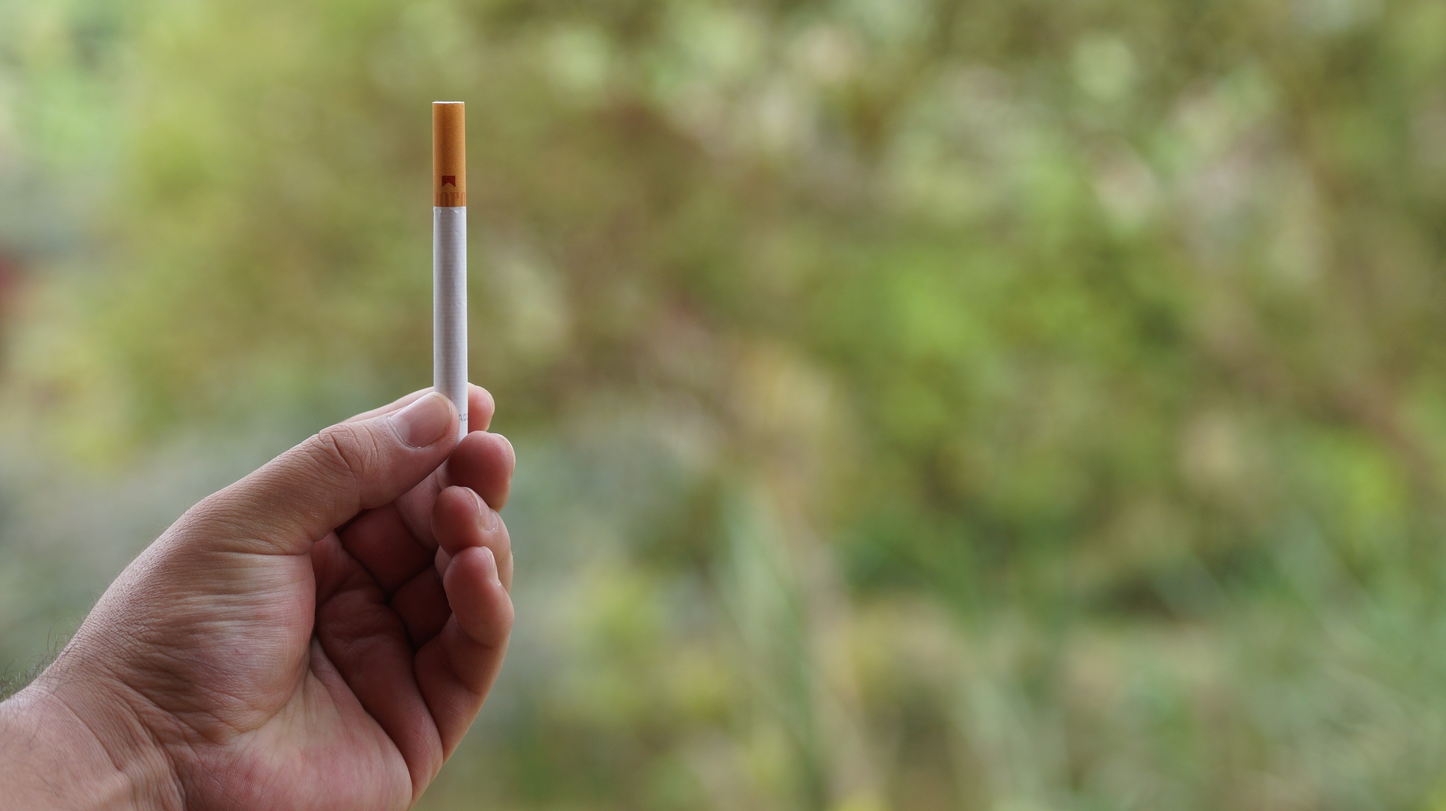
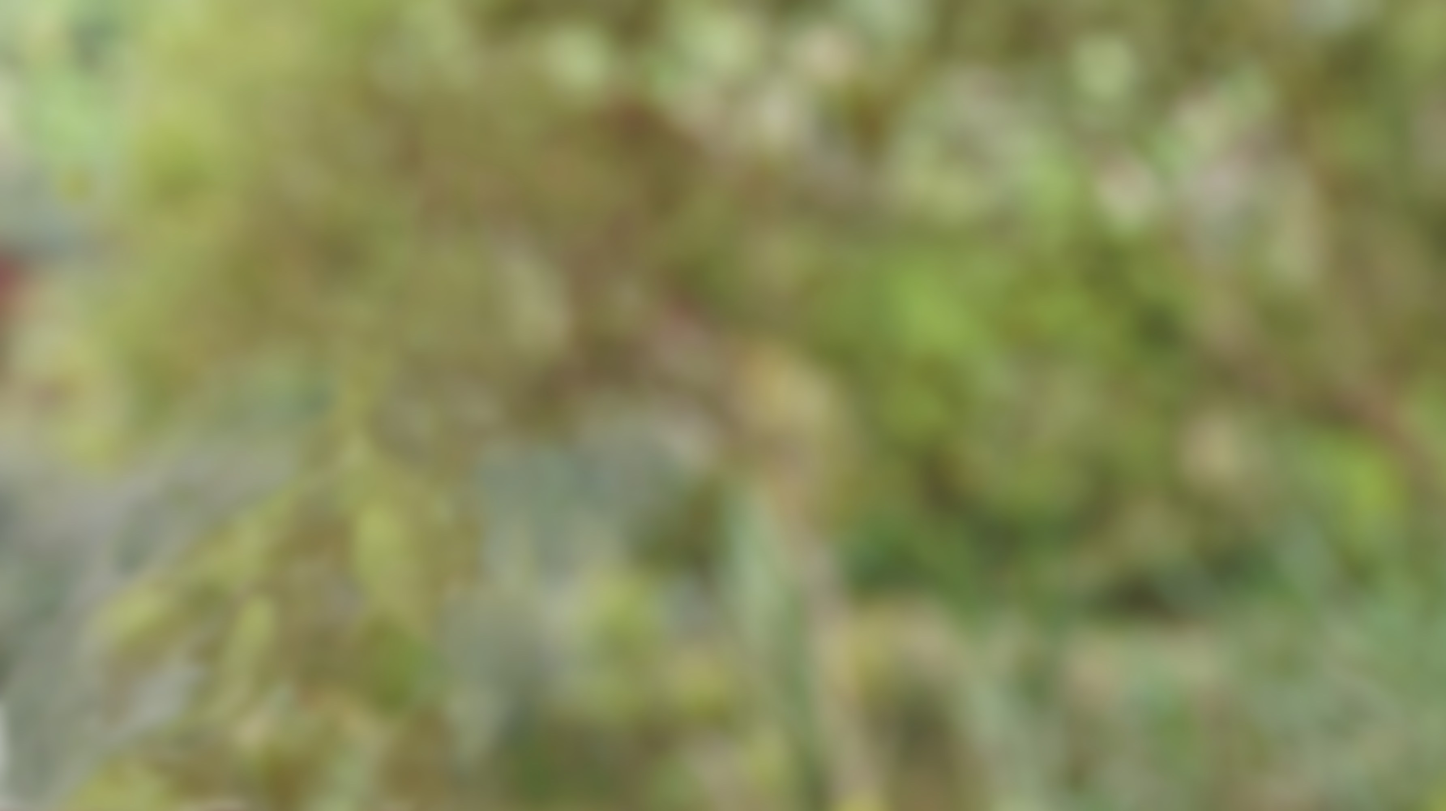
Add articel img

Changed region(s): [[0.0, 0.124, 0.3733, 1.0], [0.0311, 0.217, 0.0622, 0.248]]

diff --git a/static/custom/cap.js b/static/custom/cap.js
@@ -67,7 +67,6 @@ app.controller('ArticleController',function($scope,$timeout)
 		$('body').animate({'scrollTop':top_pos+window.scrollY-200},500);
 		}
 
-
 	})
 
 
@@ -842,68 +841,91 @@ app.directive('menuScroll',function()
 app.directive('setHeight',function()
 	{
 	return {
-
-		link:function(scope,element,attrs)
+		compile:function()
 			{
-		
-			//append new div to retrive precise dimensions of viewport
-
-			scope.set_height = set_height;
-			
-			function set_height()
+			return {
+			pre:function(scope,element,attrs)
 				{
-				var block = $('.for_viewport_dim');
-				if (block.length==0)
+		
+				//append new div to retrive precise dimensions of viewport
+
+				scope.set_height = set_height;
+			
+				function set_height()
 					{
-					var div = $('<div></div>');
-					div.addClass('for_viewport_dim');
-					div.css({'width':'100%','height':'100%','display':'none'});
-					$('html').append(div);
+					var block = $('.for_viewport_dim');
+					if (block.length==0)
+						{
+						var div = $('<div></div>');
+						div.addClass('for_viewport_dim');
+						div.css({'width':'100%','height':'100%','display':'none'});
+						$('html').append(div);
+						}
+
+					var height = attrs['setHeight'].replace('%','');
+					var viewport_height = $('.for_viewport_dim').height();
+					$(element).height(viewport_height*height/100);
 					}
+				scope.set_height();
+				//$(window).on('resize',scope.set_height);
 
-				var height = attrs['setHeight'].replace('%','');
-				var viewport_height = $('.for_viewport_dim').height();
-				$(element).height(viewport_height*height/100);
+				},
+			post:function()
+				{
+
+
 				}
-			scope.set_height();
-			//$(window).on('resize',scope.set_height);
 
-
+			   }
 
 			}
 
-	}
+		}
 	})
 
 app.directive('setWidth',function()
 	{
 	return {
 
-		link:function(scope,element,attrs)
+		compile:function()
 			{
-
-			scope.set_width = set_width;
-
-
-			function set_width()
-				{
-				//append new div to retrive precise dimensions of viewport
-				var block = $('.for_viewport_dim');
-				if (block.length==0)
+			return {
+				pre:function(scope,element,attrs)
 					{
-					var div = $('<div></div>');
-					div.addClass('for_viewport_dim');
-					div.css({'width':'100%','height':'100%','display':'none'});
-					$('html').append(div);
+
+					scope.set_width = set_width;
+
+
+					function set_width()
+						{
+						//append new div to retrive precise dimensions of viewport
+						var block = $('.for_viewport_dim');
+						if (block.length==0)
+							{
+							var div = $('<div></div>');
+							div.addClass('for_viewport_dim');
+							div.css({'width':'100%','height':'100%','display':'none'});
+							$('html').append(div);
+							}
+						var width = attrs['setWidth'].replace('%','');
+						var viewport_width = $('.for_viewport_dim').width();
+						$(element).width(viewport_width*width/100);
+						}
+					scope.set_width();
+				//	$(window).on('resize',scope.set_width);
+
+	
+					},
+				post:function()
+					{
+
 					}
-				var width = attrs['setWidth'].replace('%','');
-				var viewport_width = $('.for_viewport_dim').width();
-				$(element).width(viewport_width*width/100);
-				}
-			scope.set_width();
-		//	$(window).on('resize',scope.set_width);
+		
+
+			   	}
 
 			}
+
 
 		}
 	})
@@ -964,7 +986,25 @@ app.directive('animateScroll',function($window)
 
 
 
+app.directive('delayClass',function($timeout)
+	{
+	return {
+		link:function(scope,element,attrs)
+			{
 
+			var duration = attrs['delayDuration']===undefined?2000:attrs['delayDuration'];
+			var add_class = attrs['delayClass']===undefined?'':attrs['delayClass'];
+	
+			$timeout(function()
+				{
+				$(element).addClass(add_class);
+				},duration);
+
+			}
+	
+	}
+
+	})
 
 
 

diff --git a/static/custom/art_cont.css b/static/custom/art_cont.css
@@ -79,13 +79,9 @@
 
 	.article_container .left_col
 		{
-		position:relative;
-		width:270px;
-		height:auto;
 		}
 	.article_container .right_col
 		{
-		margin-left:0px;
 		}	
 
 
@@ -157,14 +153,10 @@
 
 	.article_container .left_col
 		{
-		position:absolute;
-		width:220px;
-		height:300px;
 		}
 
 	.article_container .right_col
 		{
-		margin-left:270px;
 		}	
 
 
@@ -220,14 +212,10 @@
 
 	.article_container .left_col
 		{
-		position:absolute;
-		width:220px;
-		height:300px;
 		}
 
 	.article_container .right_col
 		{
-		margin-left:270px;
 		}	
 
  	}
@@ -583,29 +571,82 @@
 
 .article_container .article_img
 	{
-	position:static;
+	position:relative;
 	top:0px;
 	left:0px;
-	height:400px;
-	width:100%;
-	background:red;
-	background:url('../img/sigarette.jpg');
 	background-size:cover;
+	
 	}
 
-.article_container .article_img:before
+.article_container .article_img:after
 	{
 	position:absolute;
 	width:100%;
 	height:200px;
 	background:linear-gradient(to bottom, rgba(0,0,0,0.4) 0%,rgba(0,0,0,0) 100%);
-	position:absolute;
+	position:fixed;
 	top:0px;
 	left:0px;
-	z-index:2;
+	z-index:3;
 	content:'';	
 	}
 
+
+.article_container .article_img:before
+	{
+	content:'';
+	width:100%;
+	height:100%;
+	position:fixed;
+	z-index:1;
+	top:0px;
+	left:0px;
+	background-size:cover;
+	background:url('../img/sigarette.jpg');
+	}
+
+
+.article_container .title
+	{
+	width:50%;
+	padding:50px;
+	font-size:50px;
+	color:white;
+	border-right:1px solid white;
+	text-align:right;
+	position:absolute;
+	top:40%;
+	right:50px;
+	z-index:4;
+	display:none;
+	}
+
+.article_container .bouncing
+	{
+	display:block;
+	}
+
+
+.article_container .article_img .sigarette_hand
+	{
+	width:100%;
+	height:100%;
+	background:url('../img/sigarette_hand.png');
+	background-size:cover;
+	position:absolute;
+	top:100%;
+	left:0px;
+	z-index:3;
+	transform:translateZ(0%,0%,0);
+	transition:top ease 1s;
+
+	}
+
+
+.article_container .top_pos
+	{
+	top:-30% !important;
+	}
 
 
 /* CAPSULEFOR <article_img:mouse_move_img;CLOSE>  */
@@ -628,11 +669,14 @@
 
 .article_container .block_container
 	{
-	width:90%;
-	margin-left:auto;
-	margin-right:auto;
-	margin-top:50px;
+	width:100%;
+	margin-top:0px;
+	padding-top:50px;
 	position:relative;
+	height:auto;
+	background:white;
+	z-index:5;
+	text-align:center;
 	}
 
 
@@ -646,7 +690,11 @@
 
 .article_container .left_col
 	{
+	vertical-align:top;
 	height:auto;
+	display:inline-block;
+	width:200px;
+	
 	}
 
 .article_container .left_col ul
@@ -704,7 +752,9 @@
 
 .article_container .right_col
 	{
-	float:left;
+	display:inline-block;
+	width:500px;
+	vertical-align:top;
 	text-align:justify;
 	max-width:1000px;
 	}
@@ -734,7 +784,6 @@
 .article_container .right_col 
 	{
 	font-size:16px;
--	margin-top:-300px;
 	line-height:1.6;
 	}
 

diff --git a/static/tmp/article.html b/static/tmp/article.html
@@ -1,11 +1,21 @@
 
-<!-- <div class="title_article">Article</div>  -->
 
 
 <div class="article_container">
 
 
-	<div class="article_img">
+	<div class="article_img" set-width="100%" set-height="100%">
+		<div class="sigarette_hand"
+			parallax
+			parallax-top="100%"
+			delay-class="top_pos"
+			delay-duration="1000"	
+			></div>
+
+
+		<div class="title" delay-class="bouncing animated bounceInRight" delay-duration="1500">
+			<span>Read in details article</span>
+		</div>
 	</div>
 
 
